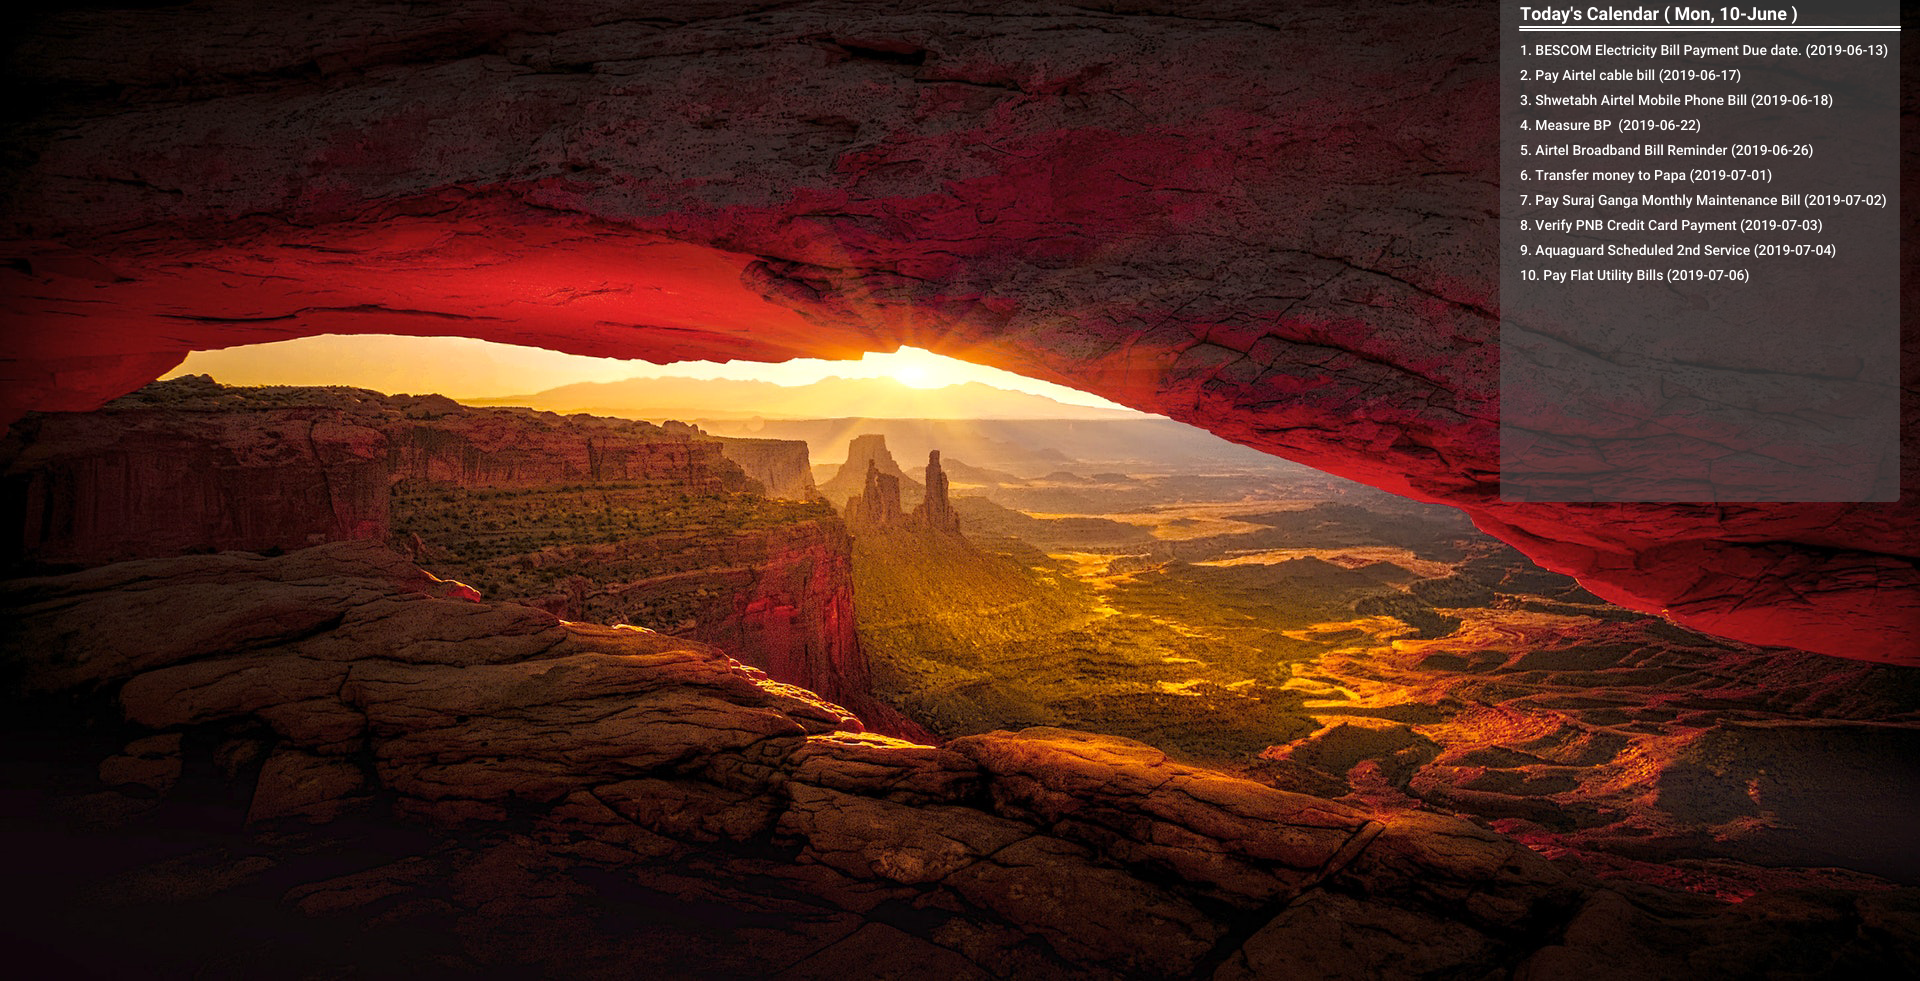
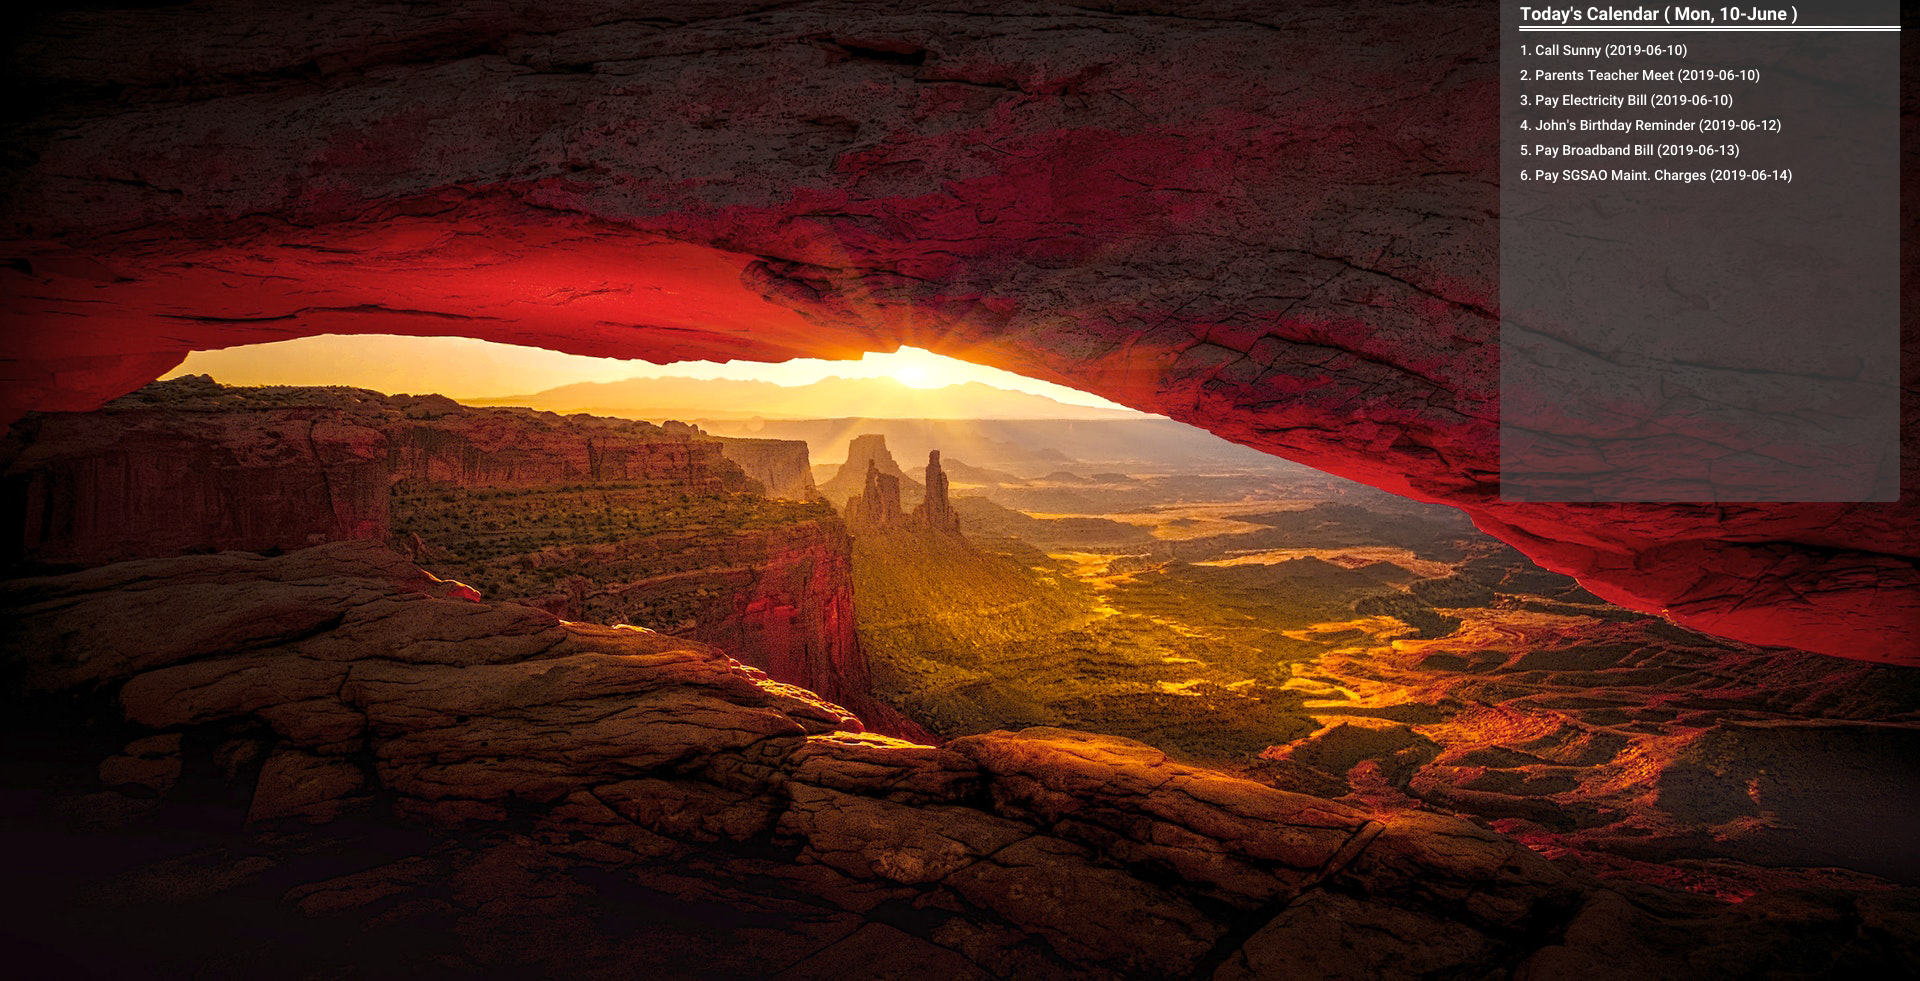
updated readme.md and wallpaper

Changed region(s): [[0.7812, 0.0306, 0.9688, 0.3058]]

diff --git a/main.go b/main.go
@@ -2,7 +2,6 @@ package main
 
 import (
 	"encoding/json"
-	"fmt"
 	"os"
 )
 
@@ -24,33 +23,18 @@ type config struct {
 }
 
 func main() {
-	// cfg := config{
-	// 	sourceImageName:  "canyon.jpg",
-	// 	outputFileName:   "wallpaper.png",
-	// 	marginRight:      300,
-	// 	marginTop:        50,
-	// 	width:            2560,
-	// 	height:           1440,
-	// 	printDate:        true,
-	// 	titleFont:        "./Fonts/Roboto/Roboto-Bold.ttf",
-	// 	titleFontSize:    18,
-	// 	itemFontSize:     14,
-	// 	itemFont:         "./Fonts/Roboto/Roboto-Medium.ttf",
-	// 	titleText:        "Today's Calendar",
-	// 	itemPadding:      25,
-	// 	googleCalendarID: "lts59adca39hk04r3vnlvir93s@group.calendar.google.com",
+	cfg := loadConfig()
+
+	// Test Data
+	// appointments := []string{
+	// 	"Call Sunny (2019-06-10)",
+	// 	"Parents Teacher Meet (2019-06-10)",
+	// 	"Pay Electricity Bill (2019-06-10)",
+	// 	"John's Birthday Reminder (2019-06-12)",
+	// 	"Pay Broadband Bill (2019-06-13)",
+	// 	"Pay SGSAO Maint. Charges (2019-06-14)",
 	// }
 
-	cfg := loadConfig()
-	// appointments := []string{
-	// 	"Call Sunny",
-	// 	"Parents Teacher Meet",
-	// 	"Pay LIC Premium",
-	// 	"Gautam's Happy Birthday",
-	// 	"Pay BESCOM Bill",
-	// 	"Pay SGSAO Maint. Charges",
-	// }
-	fmt.Println(cfg)
 	appointments := getGoogleAppointments(cfg)
 	writeAppointmentsToImage(appointments, cfg)
 }

diff --git a/README.md b/README.md
@@ -21,3 +21,6 @@
     "TitleText": "Today's Calendar",
     "ItemPadding": 25,
     "GoogleCalendarID": "aaa@group.calendar.google.com"
+
+# Canyon wallpaper taken from:
+[pexels.com](https://www.pexels.com/photo/canyon-arizona-1672813/)
